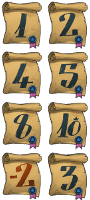
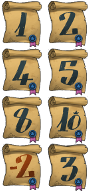
smaller xp tokens

diff --git a/takaraisland.css b/takaraisland.css
@@ -738,8 +738,8 @@ transform: rotate(0deg);
   border: 0px;
   width: 309px;
   height: 200px;
-  top:75px;
-  left: 1px;
+  top: 80px;
+  left: 2px;
   display: inline-flex;
   position: absolute;
   border-style: solid;
@@ -760,9 +760,9 @@ transform: rotate(0deg);
   width: 160px;
   padding-left: 10px;
   padding-right: 10px;
-  height: 18px;
-  top:1px;
-  left: 10px;
+  height: 17px;
+  top: -16px;
+  left: 100px;
   position: relative;
   border-style: solid;
   border-color: #ddffbc;
@@ -775,7 +775,7 @@ transform: rotate(0deg);
   border: 0px;
   width: 230px;
   height: 51px;
-  top:20px;
+  top: 0px;
   left: 0px;
   position: absolute;
   border-style: solid;

diff --git a/takaraisland.js b/takaraisland.js
@@ -97,7 +97,7 @@ function (dojo, declare) {
                 thisplayerid=this.gamedatas.players[i].id;
 				thisstore="xpstore_"+thisplayerid;
 				this[thisstore] = new ebg.stock();
-				this[thisstore].create( this, $(thisstore), 45 , 50);
+				this[thisstore].create( this, $(thisstore), 45 , 48);
 				this[thisstore].image_items_per_row = 2;
 				this[thisstore].setSelectionMode( 0 );
 				this[thisstore].item_margin = 1;
